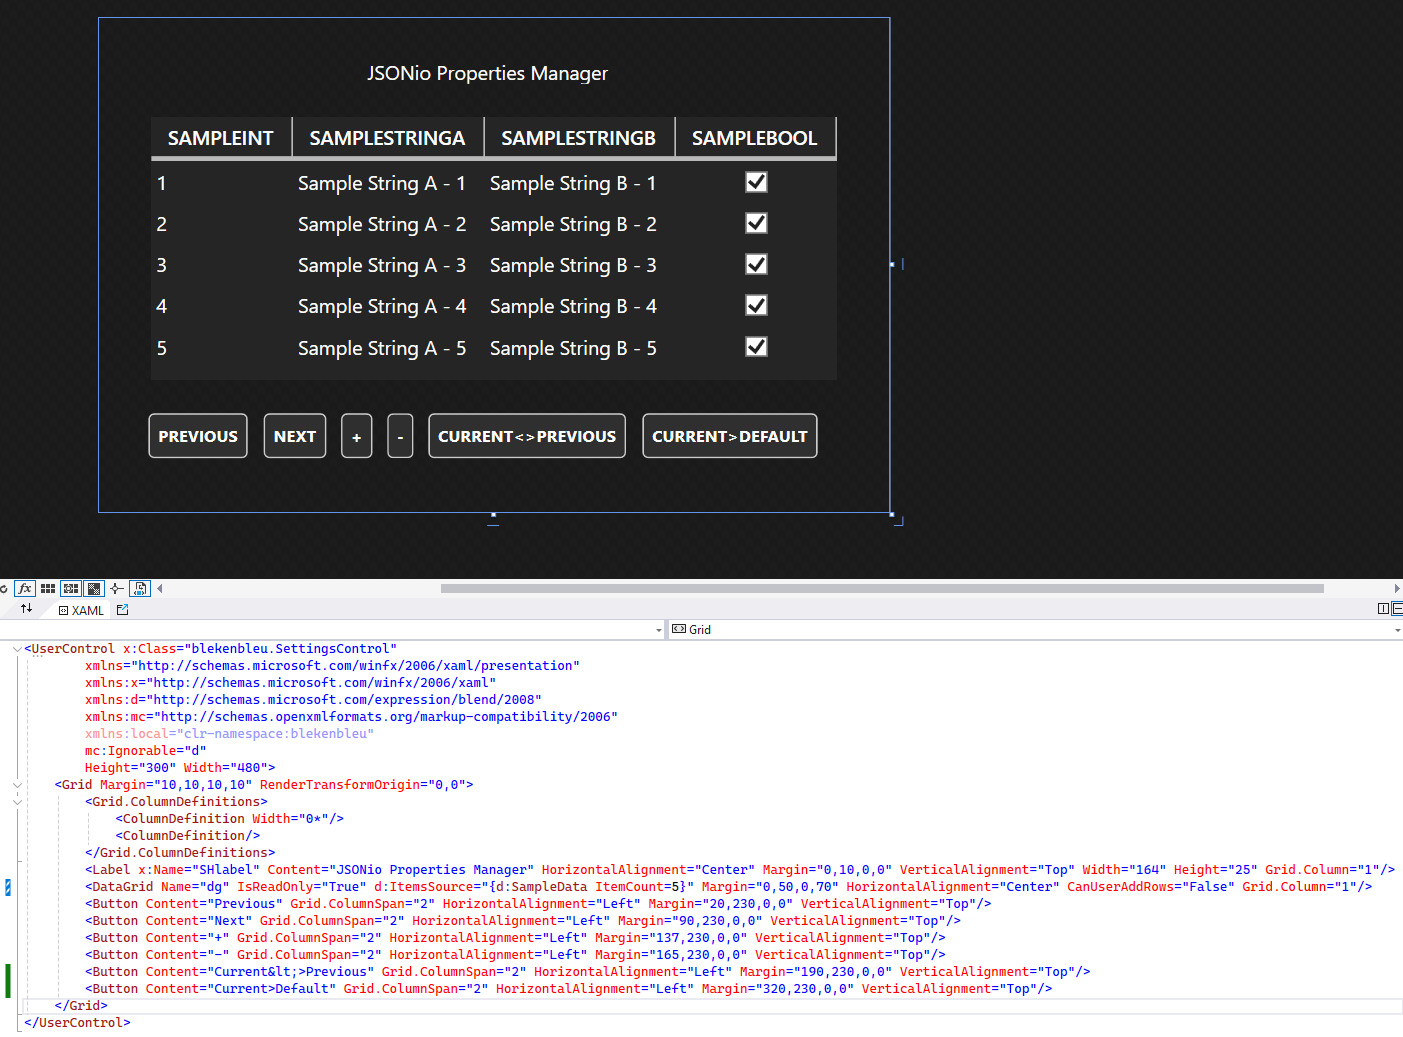
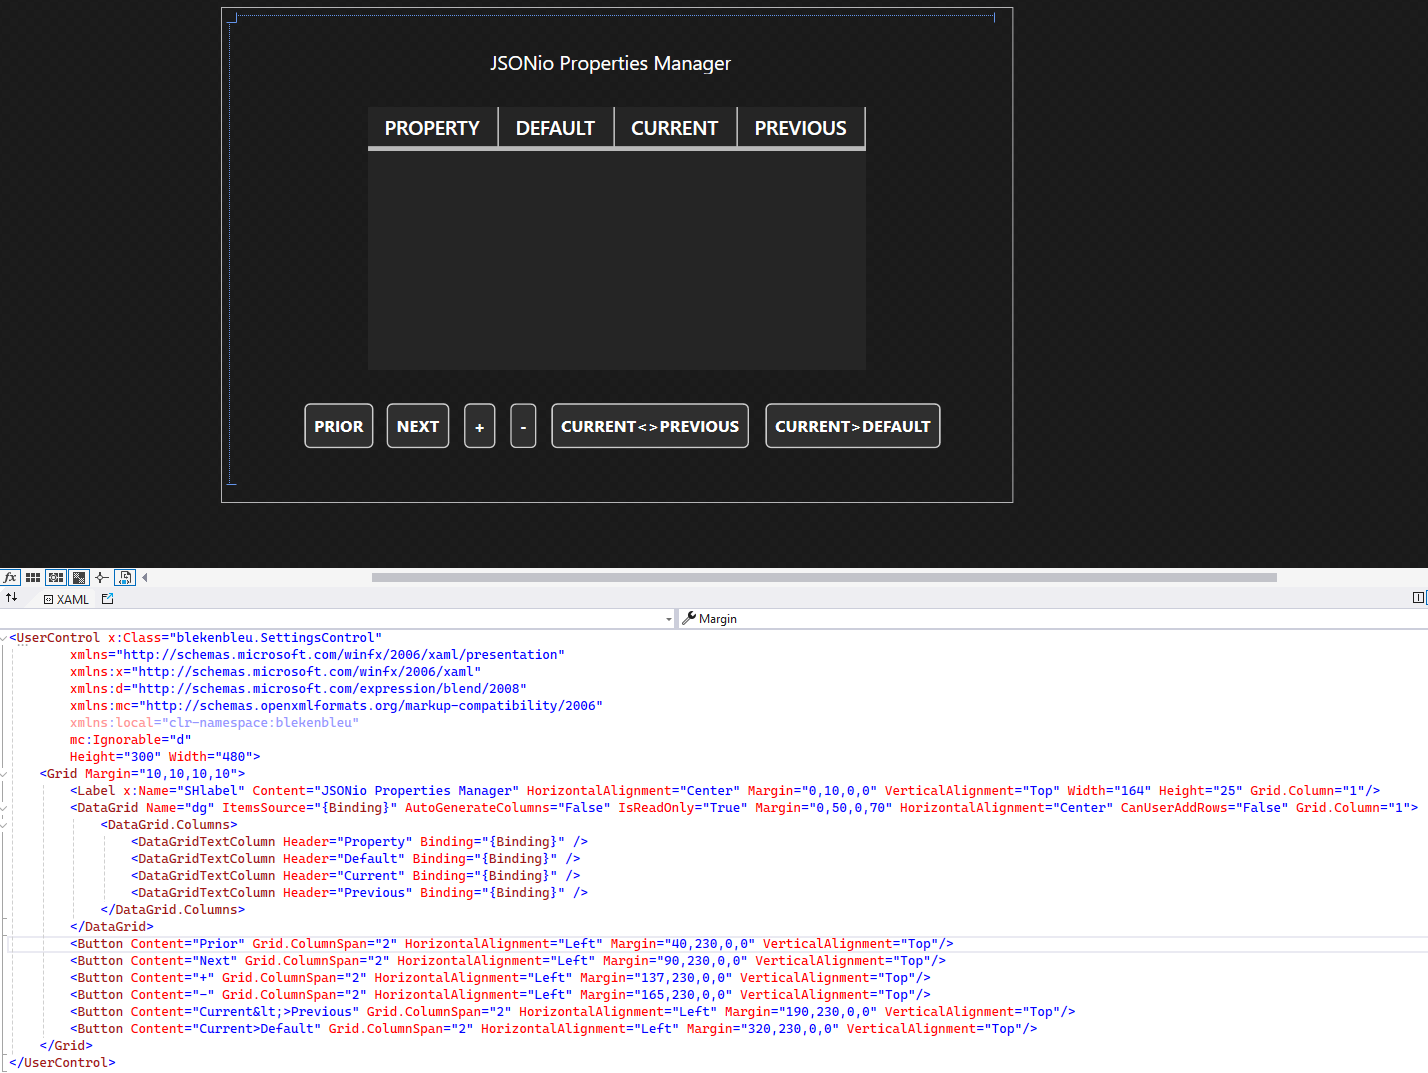
add column headers

diff --git a/Control.xaml b/Control.xaml
@@ -6,14 +6,17 @@
 		xmlns:local="clr-namespace:blekenbleu"
 		mc:Ignorable="d"
 		Height="300" Width="480">
-    <Grid Margin="10,10,10,10" RenderTransformOrigin="0,0">
-        <Grid.ColumnDefinitions>
-            <ColumnDefinition Width="0*"/>
-            <ColumnDefinition/>
-        </Grid.ColumnDefinitions>
+    <Grid Margin="10,10,10,10">
         <Label x:Name="SHlabel" Content="JSONio Properties Manager" HorizontalAlignment="Center" Margin="0,10,0,0" VerticalAlignment="Top" Width="164" Height="25" Grid.Column="1"/>
-        <DataGrid Name="dg" IsReadOnly="True" d:ItemsSource="{d:SampleData ItemCount=5}" Margin="0,50,0,70" HorizontalAlignment="Center" CanUserAddRows="False" Grid.Column="1"/>
-        <Button Content="Previous" Grid.ColumnSpan="2" HorizontalAlignment="Left" Margin="20,230,0,0" VerticalAlignment="Top"/>
+        <DataGrid Name="dg" ItemsSource="{Binding}" AutoGenerateColumns="False" IsReadOnly="True" Margin="0,50,0,70" HorizontalAlignment="Center" CanUserAddRows="False" Grid.Column="1">
+            <DataGrid.Columns>
+                <DataGridTextColumn Header="Property" Binding="{Binding}" />
+                <DataGridTextColumn Header="Default" Binding="{Binding}" />
+                <DataGridTextColumn Header="Current" Binding="{Binding}" />
+                <DataGridTextColumn Header="Previous" Binding="{Binding}" />
+            </DataGrid.Columns>
+        </DataGrid>
+        <Button Content="Prior" Grid.ColumnSpan="2" HorizontalAlignment="Left" Margin="40,230,0,0" VerticalAlignment="Top"/>
         <Button Content="Next" Grid.ColumnSpan="2" HorizontalAlignment="Left" Margin="90,230,0,0" VerticalAlignment="Top"/>
         <Button Content="+" Grid.ColumnSpan="2" HorizontalAlignment="Left" Margin="137,230,0,0" VerticalAlignment="Top"/>
         <Button Content="-" Grid.ColumnSpan="2" HorizontalAlignment="Left" Margin="165,230,0,0" VerticalAlignment="Top"/>

diff --git a/README.md b/README.md
@@ -83,21 +83,26 @@ e.g. [adding and deleting elements](https://csharp-station.com/c-arrays-vs-lists
 		- [DataGrid in WPF](https://www.c-sharpcorner.com/uploadfile/mahesh/datagrid-in-wpf/)
 		- [DataGrid Class](https://learn.microsoft.com/en-us/dotnet/api/system.windows.controls.datagrid?view=windowsdesktop-8.0)
 		- [DataGrid Examples](https://www.dotnetperls.com/datagrid-wpf)
-		- [DataGrid columns](https://wpf-tutorial.com/datagrid-control/custom-columns/)
+		- [*wpf-tutorial*:&nbsp DataGrid columns](https://wpf-tutorial.com/datagrid-control/custom-columns/)
 		- [Sizing Options in the DataGrid Control](https://learn.microsoft.com/en-us/dotnet/desktop/wpf/controls/sizing-options-in-the-datagrid-control?view=netframeworkdesktop-4.8)
 		- [highlight Item in Datagrid](https://stackoverflow.com/questions/15467553/proper-datagrid-search-from-textbox-in-wpf-using-mvvm)
 		- [Change DataGrid cell colour](https://stackoverflow.com/questions/5549617/change-datagrid-cell-colour-based-on-values)
 		- [*stackoverflow*:&nbsp; highlight WPF DataGrid cell programmatically](https://stackoverflow.com/questions/3836191/how-to-select-a-row-or-a-cell-in-wpf-datagrid-programmatically)
 		- [*blog.magnusmontin*:&nbsp; programmatically select and focus a WPF DataGrid cell](https://blog.magnusmontin.net/2013/11/08/how-to-programmatically-select-and-focus-a-row-or-cell-in-a-datagrid-in-wpf/)
 		- [*learn.microsoft*:&nbsp; programmatically select AND focus a WPF Datagrid cell](https://learn.microsoft.com/en-us/archive/msdn-technet-forums/89df8b8f-29b8-4915-b2b6-e153e05f9ca9)
+		- [programmatically add DataGrid rows](https://stackoverflow.com/questions/10063770/how-to-add-a-new-row-to-datagridview-programmatically)
+		- [DataGridViewRow Class](https://learn.microsoft.com/en-us/dotnet/api/system.windows.forms.datagridviewrow?view=windowsdesktop-8.0)
+		- [*stackoverflow*:&nbsp; change WPF DataGrid cell value programmatically](https://stackoverflow.com/questions/12164079/change-datagrid-cell-value-programmatically-in-wpf)
+		- [access WPF DataGrid row and cell *example*](https://techiethings.blogspot.com/2010/05/get-wpf-datagrid-row-and-cell.html)
+		- [*CodeProject*:&nbsp; MVVM and the WPF DataGrid](https://www.codeproject.com/articles/42548/mvvm-and-the-wpf-datagrid)
 	- first steps in Visual Studio:
 		- click `Control.xaml`
 		- select View->Designer
-		- drag `DaataGrid` from `Common WPF Controls
-		- fiddle with margins for Grid and DataGrid to make space for Label
-		- drag buttons for previous, next, +, -, etc  
+		- drag in `DataGrid` from `Common WPF Controls`
+			- fiddle with margins for Grid and DataGrid to make space for Label
+			- [add DataGrid column Headers](https://learn.microsoft.com/en-us/dotnet/desktop/wpf/controls/how-to-add-row-details-to-a-datagrid-control?view=netframeworkdesktop-4.8)
+		- drag in buttons for previous, next, +, -, etc  
 			![](Documentation/DataGrid.png)  
-			*SampleData does not appear in SimHub*
 - C# WPF XY plot
 	- using [OxyPlot](https://github.com/oxyplot/oxyplot)?
 		- [website](https://oxyplot.github.io/) &nbsp; [documentation](https://oxyplot.readthedocs.io/en/latest/)
